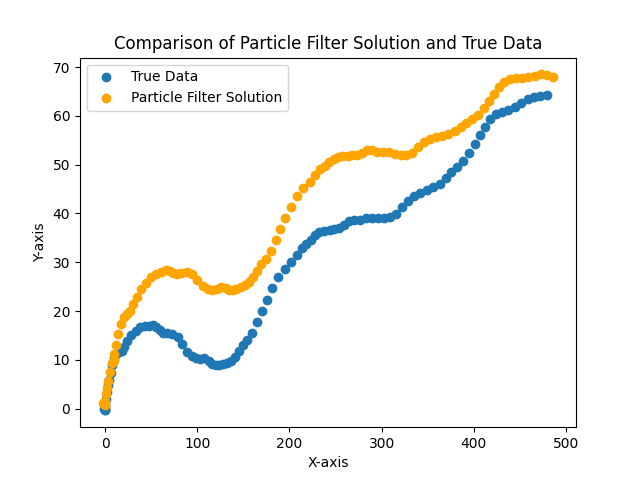
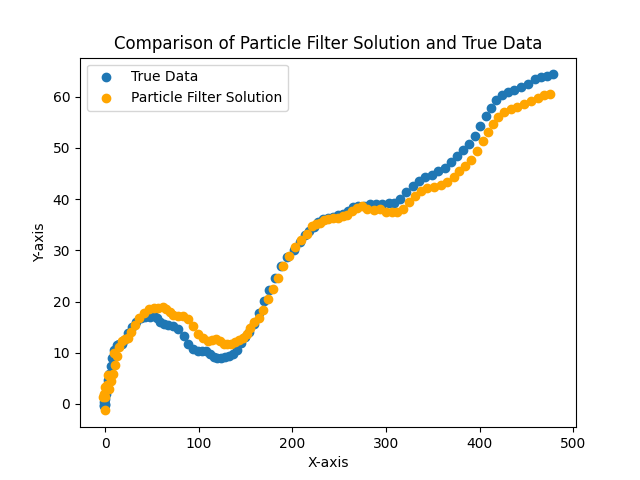
Nul

diff --git a/Part2/particle_filter.py b/Part2/particle_filter.py
@@ -68,15 +68,15 @@ def compute_weights(particles, observations, N):
         if(weights[i]==0):
             weights[i]+=1e-12
 
-    sum = np.sum(weights)
-    if sum ==0:
-        sum += 1e-12
-    weights /= sum #diviser par la norme
+    # sum = np.sum(weights)
+    # if sum ==0:
+    #     sum += 1e-12
+    # weights /= sum #diviser par la norme
     # print(weights)
-    # norm = np.linalg.norm(weights)
-    # if norm ==0:
-    #     norm += 1e-12
-    # weights /= norm
+    norm = np.linalg.norm(weights)
+    if norm ==0:
+        norm += 1e-12
+    weights /= norm
     return weights
 
 def resample(particles, weights):
@@ -153,10 +153,10 @@ beta=1                  # Beta parameter for random acceleration Gumbel distribu
 
 start_time = time.time()
 sol=np.array(particle_filter(input_data,observation_data,dt,N,Np,mean_i,cov_i,mu,beta))
-for i in range(200):
-    sol+=np.array(particle_filter(input_data,observation_data,dt,N,Np,mean_i,cov_i,mu,beta))
+# for i in range(50):
+#     sol+=np.array(particle_filter(input_data,observation_data,dt,N,Np,mean_i,cov_i,mu,beta))
 elapsed_time = time.time() - start_time
-sol/=201
+# sol/=51
 
 mse = np.mean((true_data[:2] - sol[:2]) ** 2)
 print("MSE="+str(mse))
@@ -179,7 +179,7 @@ ax.set_title('Comparison of Particle Filter Solution and True Data')
 ax.legend()
 
 #Save plot
-plt.savefig('plots/particle_nul_2.png')
+plt.savefig('plots/particle_nul_4.png')
 
 # Show the plot
 # plt.show()
